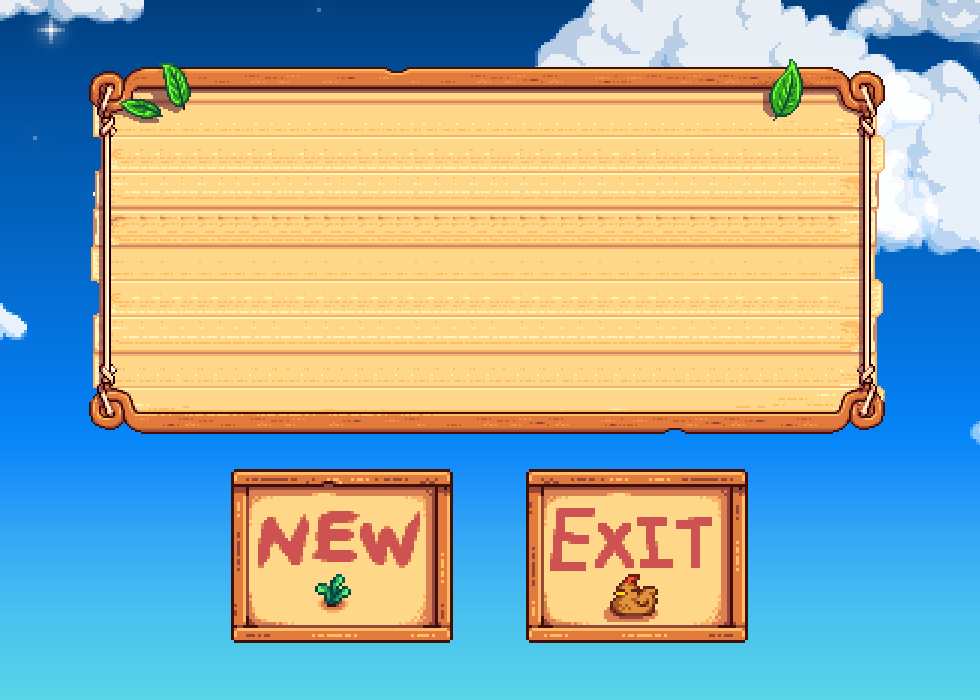
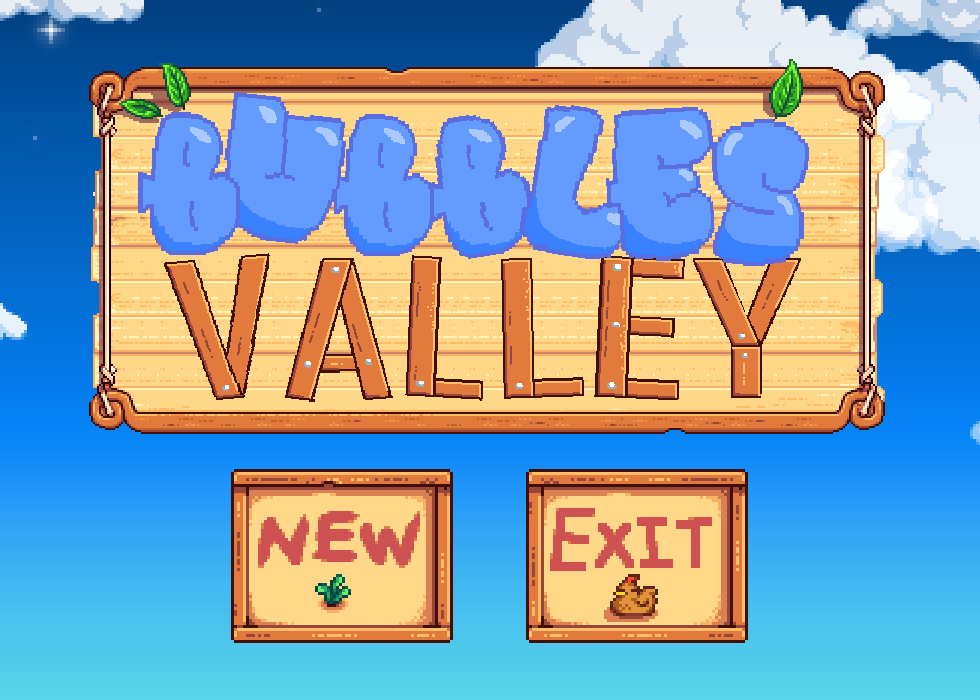
替换了全新的开始页面，修改窗口名字

Changed region(s): [[0.1224, 0.12, 0.8265, 0.57]]

diff --git a/main.py b/main.py
@@ -10,7 +10,7 @@ if __name__ == "__main__":
     win=displayCreateWin()
     #print('#',me.rx,me.ry) # gy 28 17
 
-    pygame.display.set_caption("demo")#窗口名字和图标
+    pygame.display.set_caption("Bubbles Valley")#窗口名字和图标
     img = pygame.image.load('./assets/utils/icon1.ico')
     pygame.display.set_icon(img)
 
